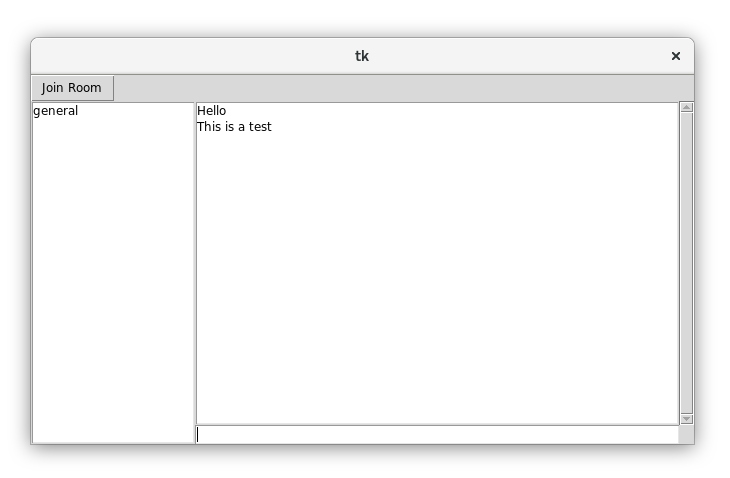
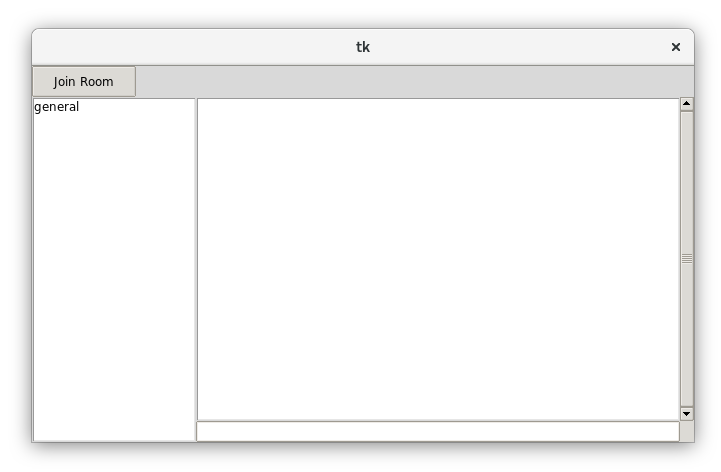
Use a theme for linux screenshot.

Changed region(s): [[0.0305, 0.0297, 0.9764, 0.9492]]

diff --git a/client.py b/client.py
@@ -6,6 +6,8 @@ import queue
 import utils
 from tkinter import *
 from tkinter.ttk import *
+# s = Style()
+# s.theme_use('clam')
 
 
 async def receiver(reader, queue_ui):
@@ -82,6 +84,8 @@ def make_style(name, color):
 
 def uimain():
     root = Tk()
+    s = Style()
+    s.theme_use('clam')
     Grid.rowconfigure(root, 1, weight=1)
     Grid.columnconfigure(root, 0, weight=1)
 
